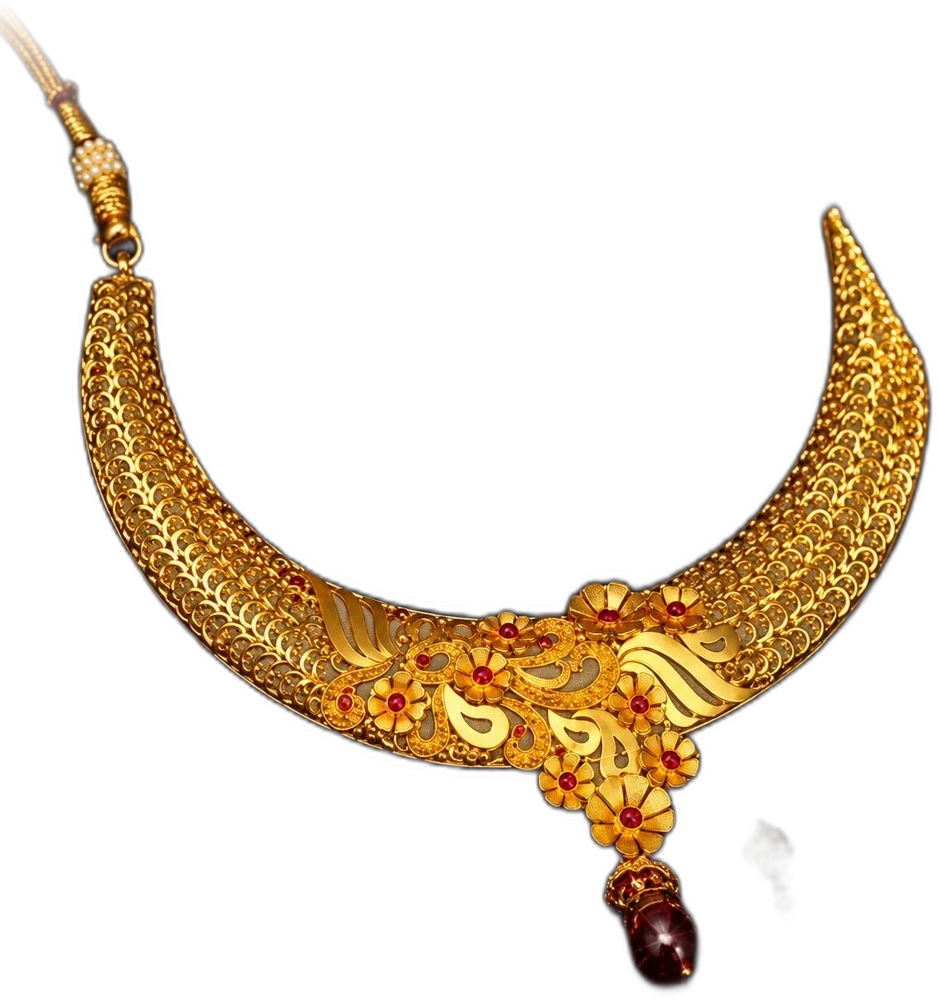
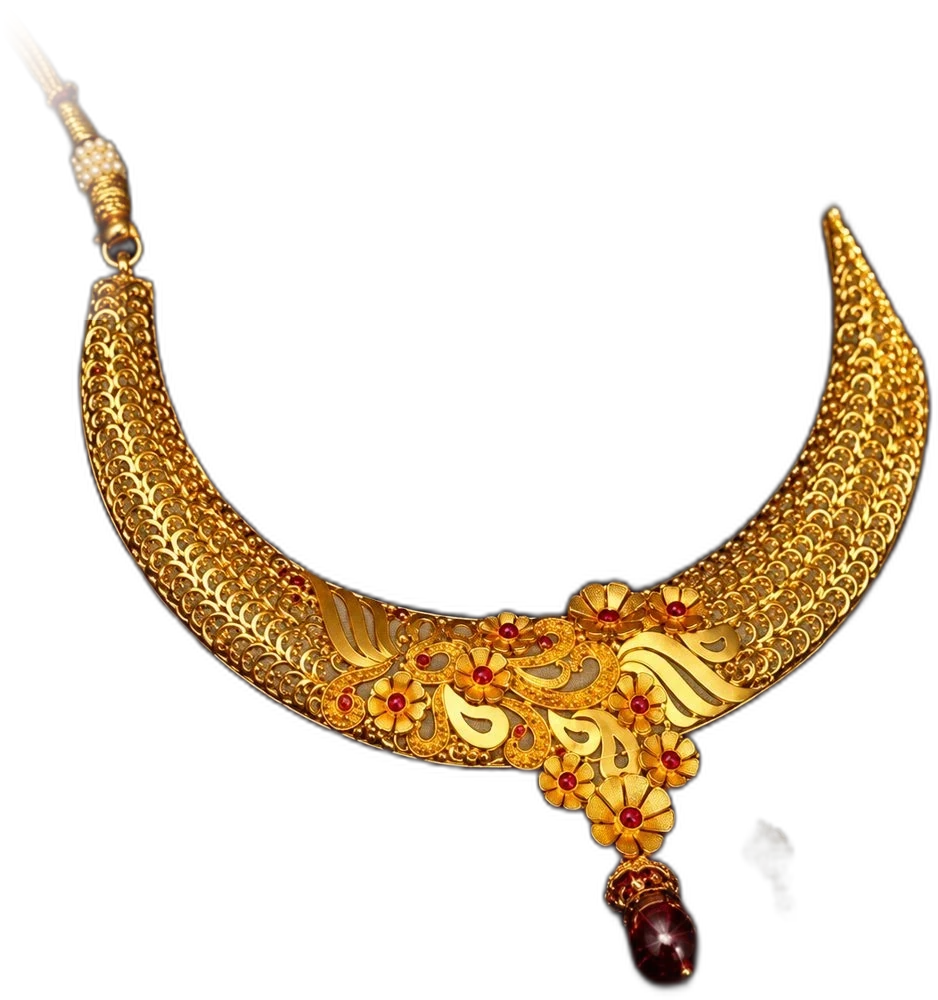
stage v112

Changed region(s): [[0.0, 0.0, 0.1237, 0.341]]

diff --git a/next/index.html b/next/index.html
@@ -13,7 +13,7 @@
 <meta property="og:image" content="https://gtxprime.github.io/sb-sons-jewellers-demo/img/og.jpg"><meta name="twitter:card" content="summary_large_image">
 <link rel="preconnect" href="https://fonts.googleapis.com"><link rel="preconnect" href="https://fonts.gstatic.com" crossorigin>
 <link href="https://fonts.googleapis.com/css2?family=Cormorant+Garamond:ital,wght@0,400;0,500;0,600;1,400;1,500&family=Inter:wght@300;400;500&display=swap" rel="stylesheet">
-<link rel="stylesheet" href="css/style.css?v=111">
+<link rel="stylesheet" href="css/style.css?v=112">
 <script>window.LOWFX=(navigator.hardwareConcurrency||8)<=4||(navigator.deviceMemory||8)<=4||innerWidth<700;document.documentElement.classList.toggle("lowfx",window.LOWFX)</script>
 <script type="application/ld+json">{"@context":"https://schema.org","@type":"JewelryStore","name":"S B & Sons Jewellers","telephone":"+918126560338","foundingDate":"2004","address":{"@type":"PostalAddress","streetAddress":"Mohan Hotel, Near Kargil Petrol Pump, Sikandra","addressLocality":"Agra","addressRegion":"Uttar Pradesh","addressCountry":"IN"},"sameAs":["https://www.instagram.com/sb_and_sons_jewellers/"]}</script>
 <script type="application/ld+json">{"@context":"https://schema.org","@type":"JewelryStore","name":"S B & Sons Jewellers","telephone":"+918126560338","url":"https://www.instagram.com/sb_and_sons_jewellers/","address":{"@type":"PostalAddress","streetAddress":"Mohan Hotel, Near Kargil Petrol Pump, Sikandra-Bodla Rd","addressLocality":"Agra","addressRegion":"Uttar Pradesh","postalCode":"282007","addressCountry":"IN"},"openingHoursSpecification":[{"@type":"OpeningHoursSpecification","dayOfWeek":["Tuesday","Wednesday","Thursday","Friday","Saturday","Sunday"],"opens":"11:00","closes":"20:00"}],"aggregateRating":{"@type":"AggregateRating","ratingValue":"4.8","reviewCount":"384"}}</script>
@@ -180,5 +180,5 @@
 <script src="https://cdnjs.cloudflare.com/ajax/libs/gsap/3.12.5/gsap.min.js"></script>
 <script src="https://cdnjs.cloudflare.com/ajax/libs/gsap/3.12.5/ScrollTrigger.min.js"></script>
 <script src="https://unpkg.com/lenis@1.1.13/dist/lenis.min.js"></script>
-<script src="js/config.js?v=111"></script><script src="js/app.js?v=111"></script><script src="js/scenes.js?v=111"></script>
+<script src="js/config.js?v=112"></script><script src="js/app.js?v=112"></script><script src="js/scenes.js?v=112"></script>
 </body></html>

diff --git a/next/css/style.css b/next/css/style.css
@@ -714,3 +714,4 @@ html #hero.hz .hz-h em.gold-text{background:linear-gradient(100deg,#f7dc96,#e8c3
  .hf-wc{width:98vw;margin-left:-49vw;margin-top:-30vh}
  .hf-wd{right:-10vw;top:17vh;width:50vw}
 }
+html #hero.hf .hf-h em.gold-text{background:linear-gradient(100deg,#f7dc96,#e8c36f 50%,#f9e4ae)!important;-webkit-background-clip:text!important;background-clip:text!important;-webkit-text-fill-color:transparent!important;color:transparent!important;filter:none!important;text-shadow:none}
